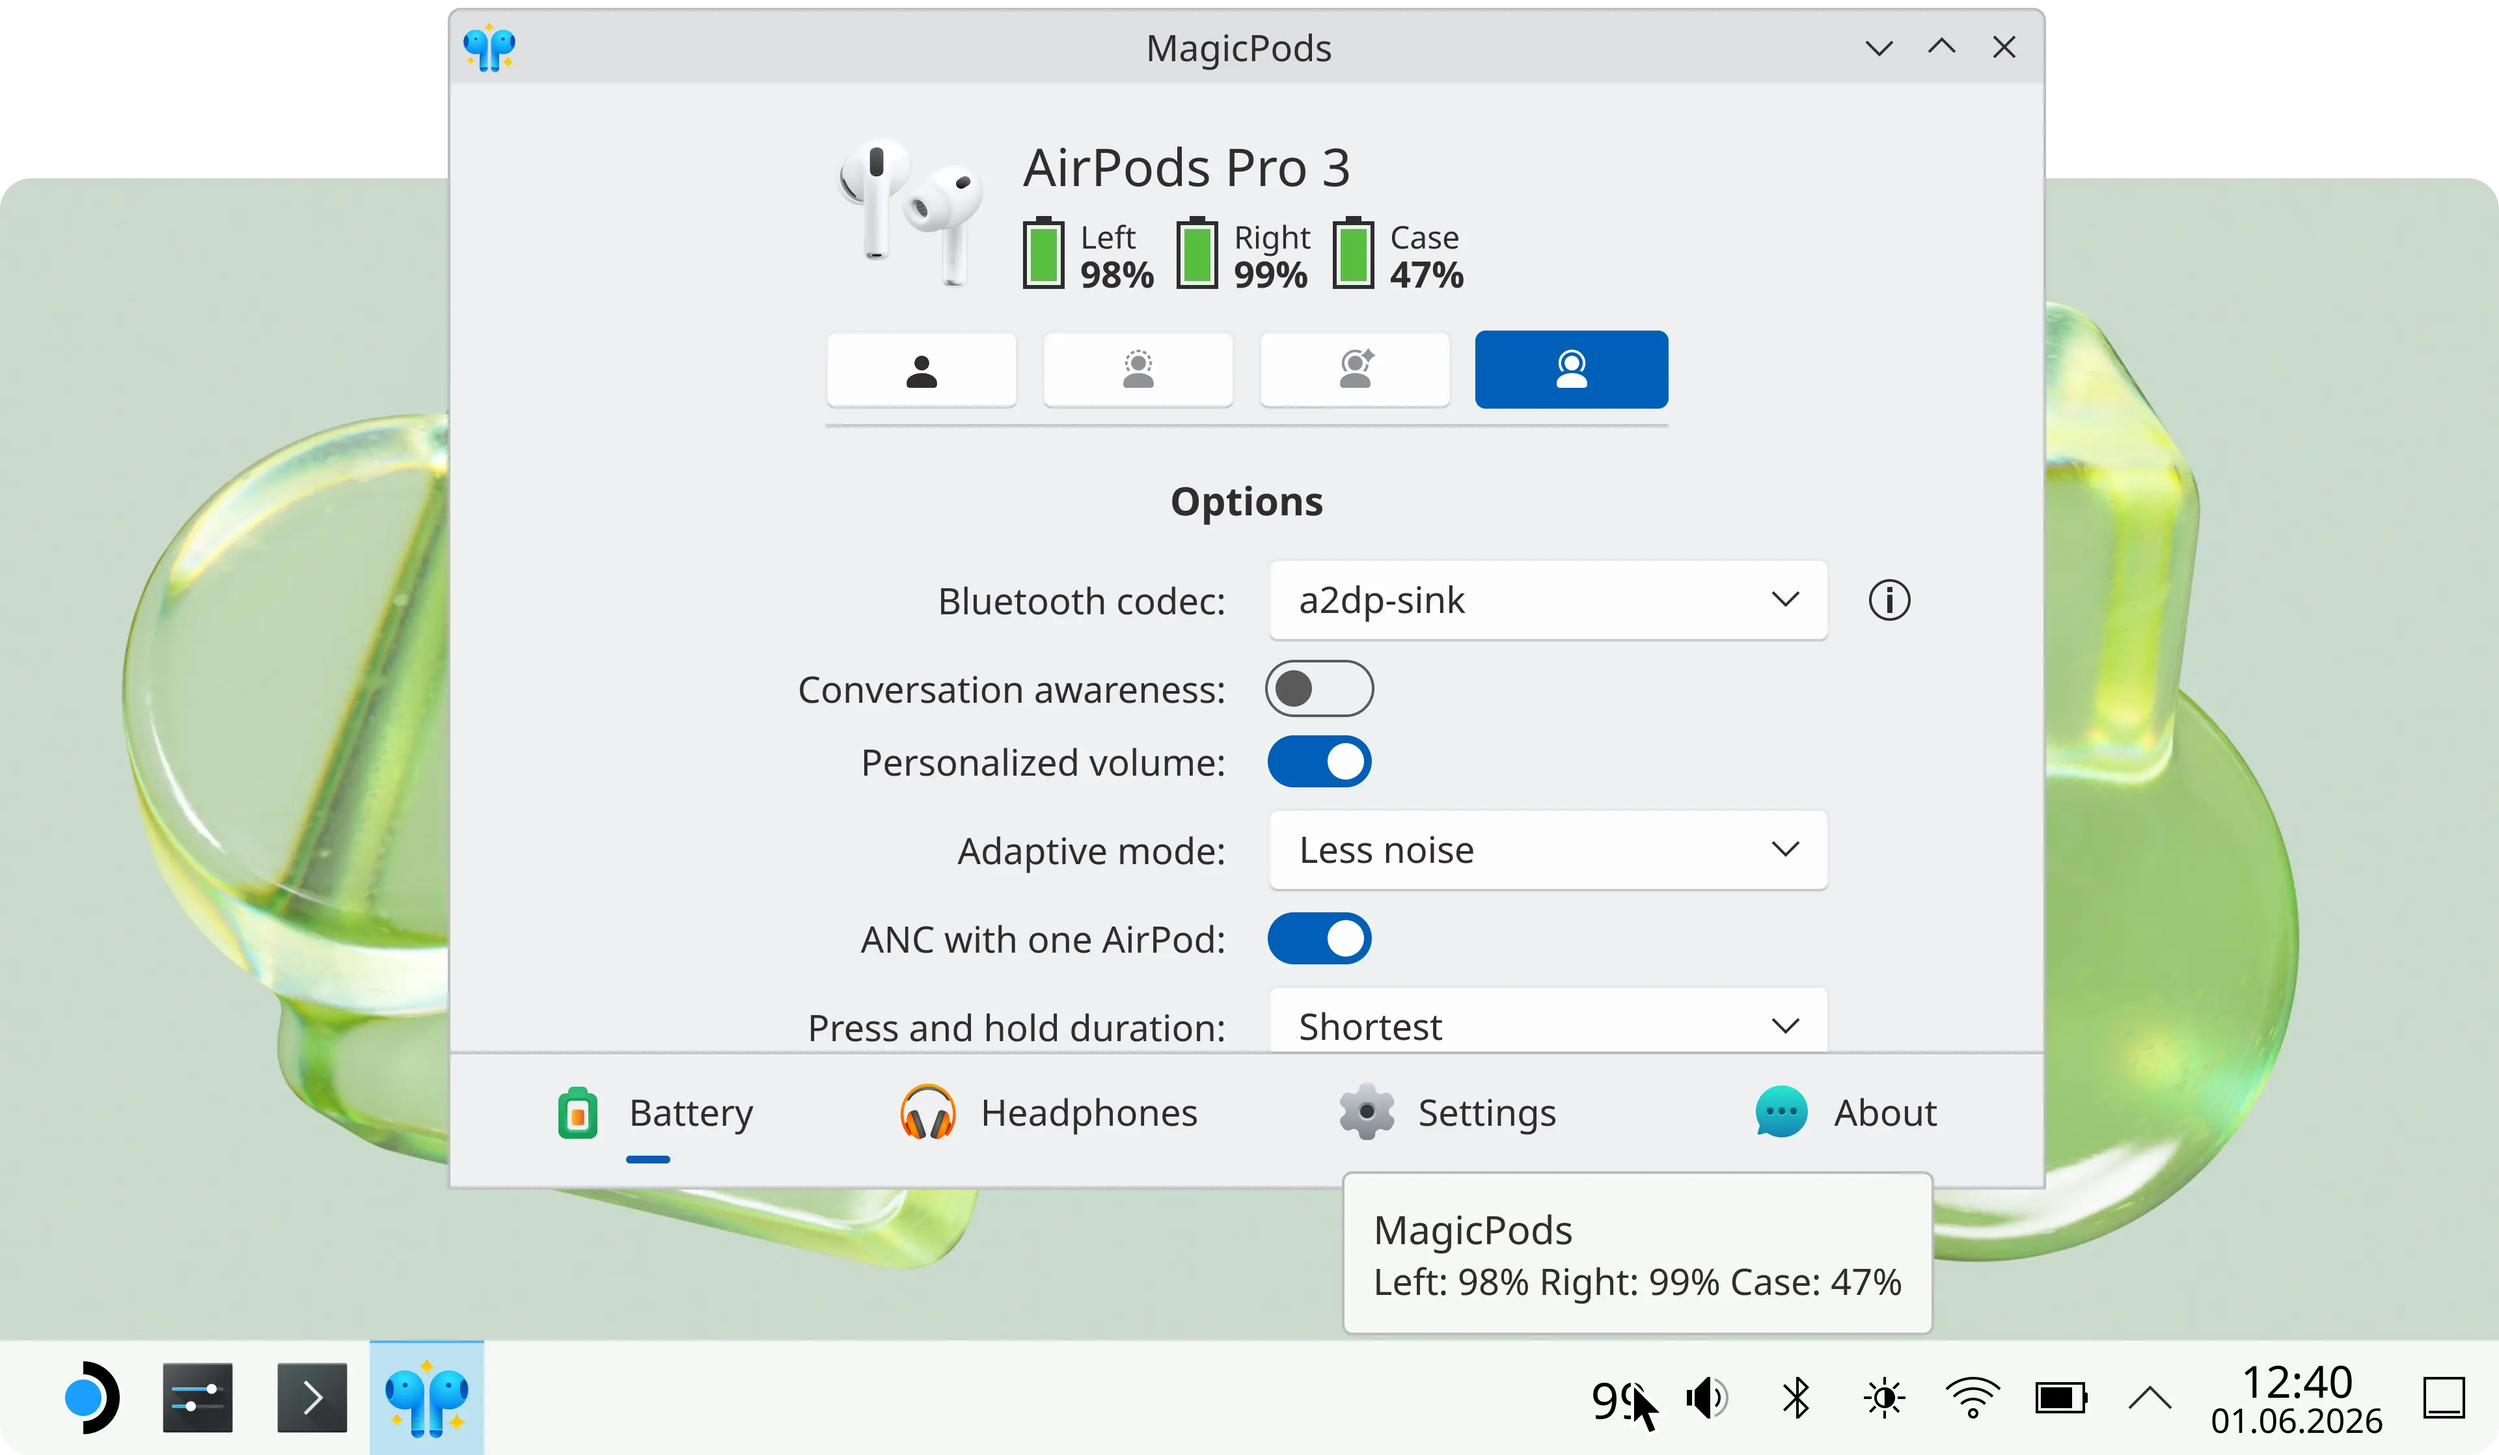
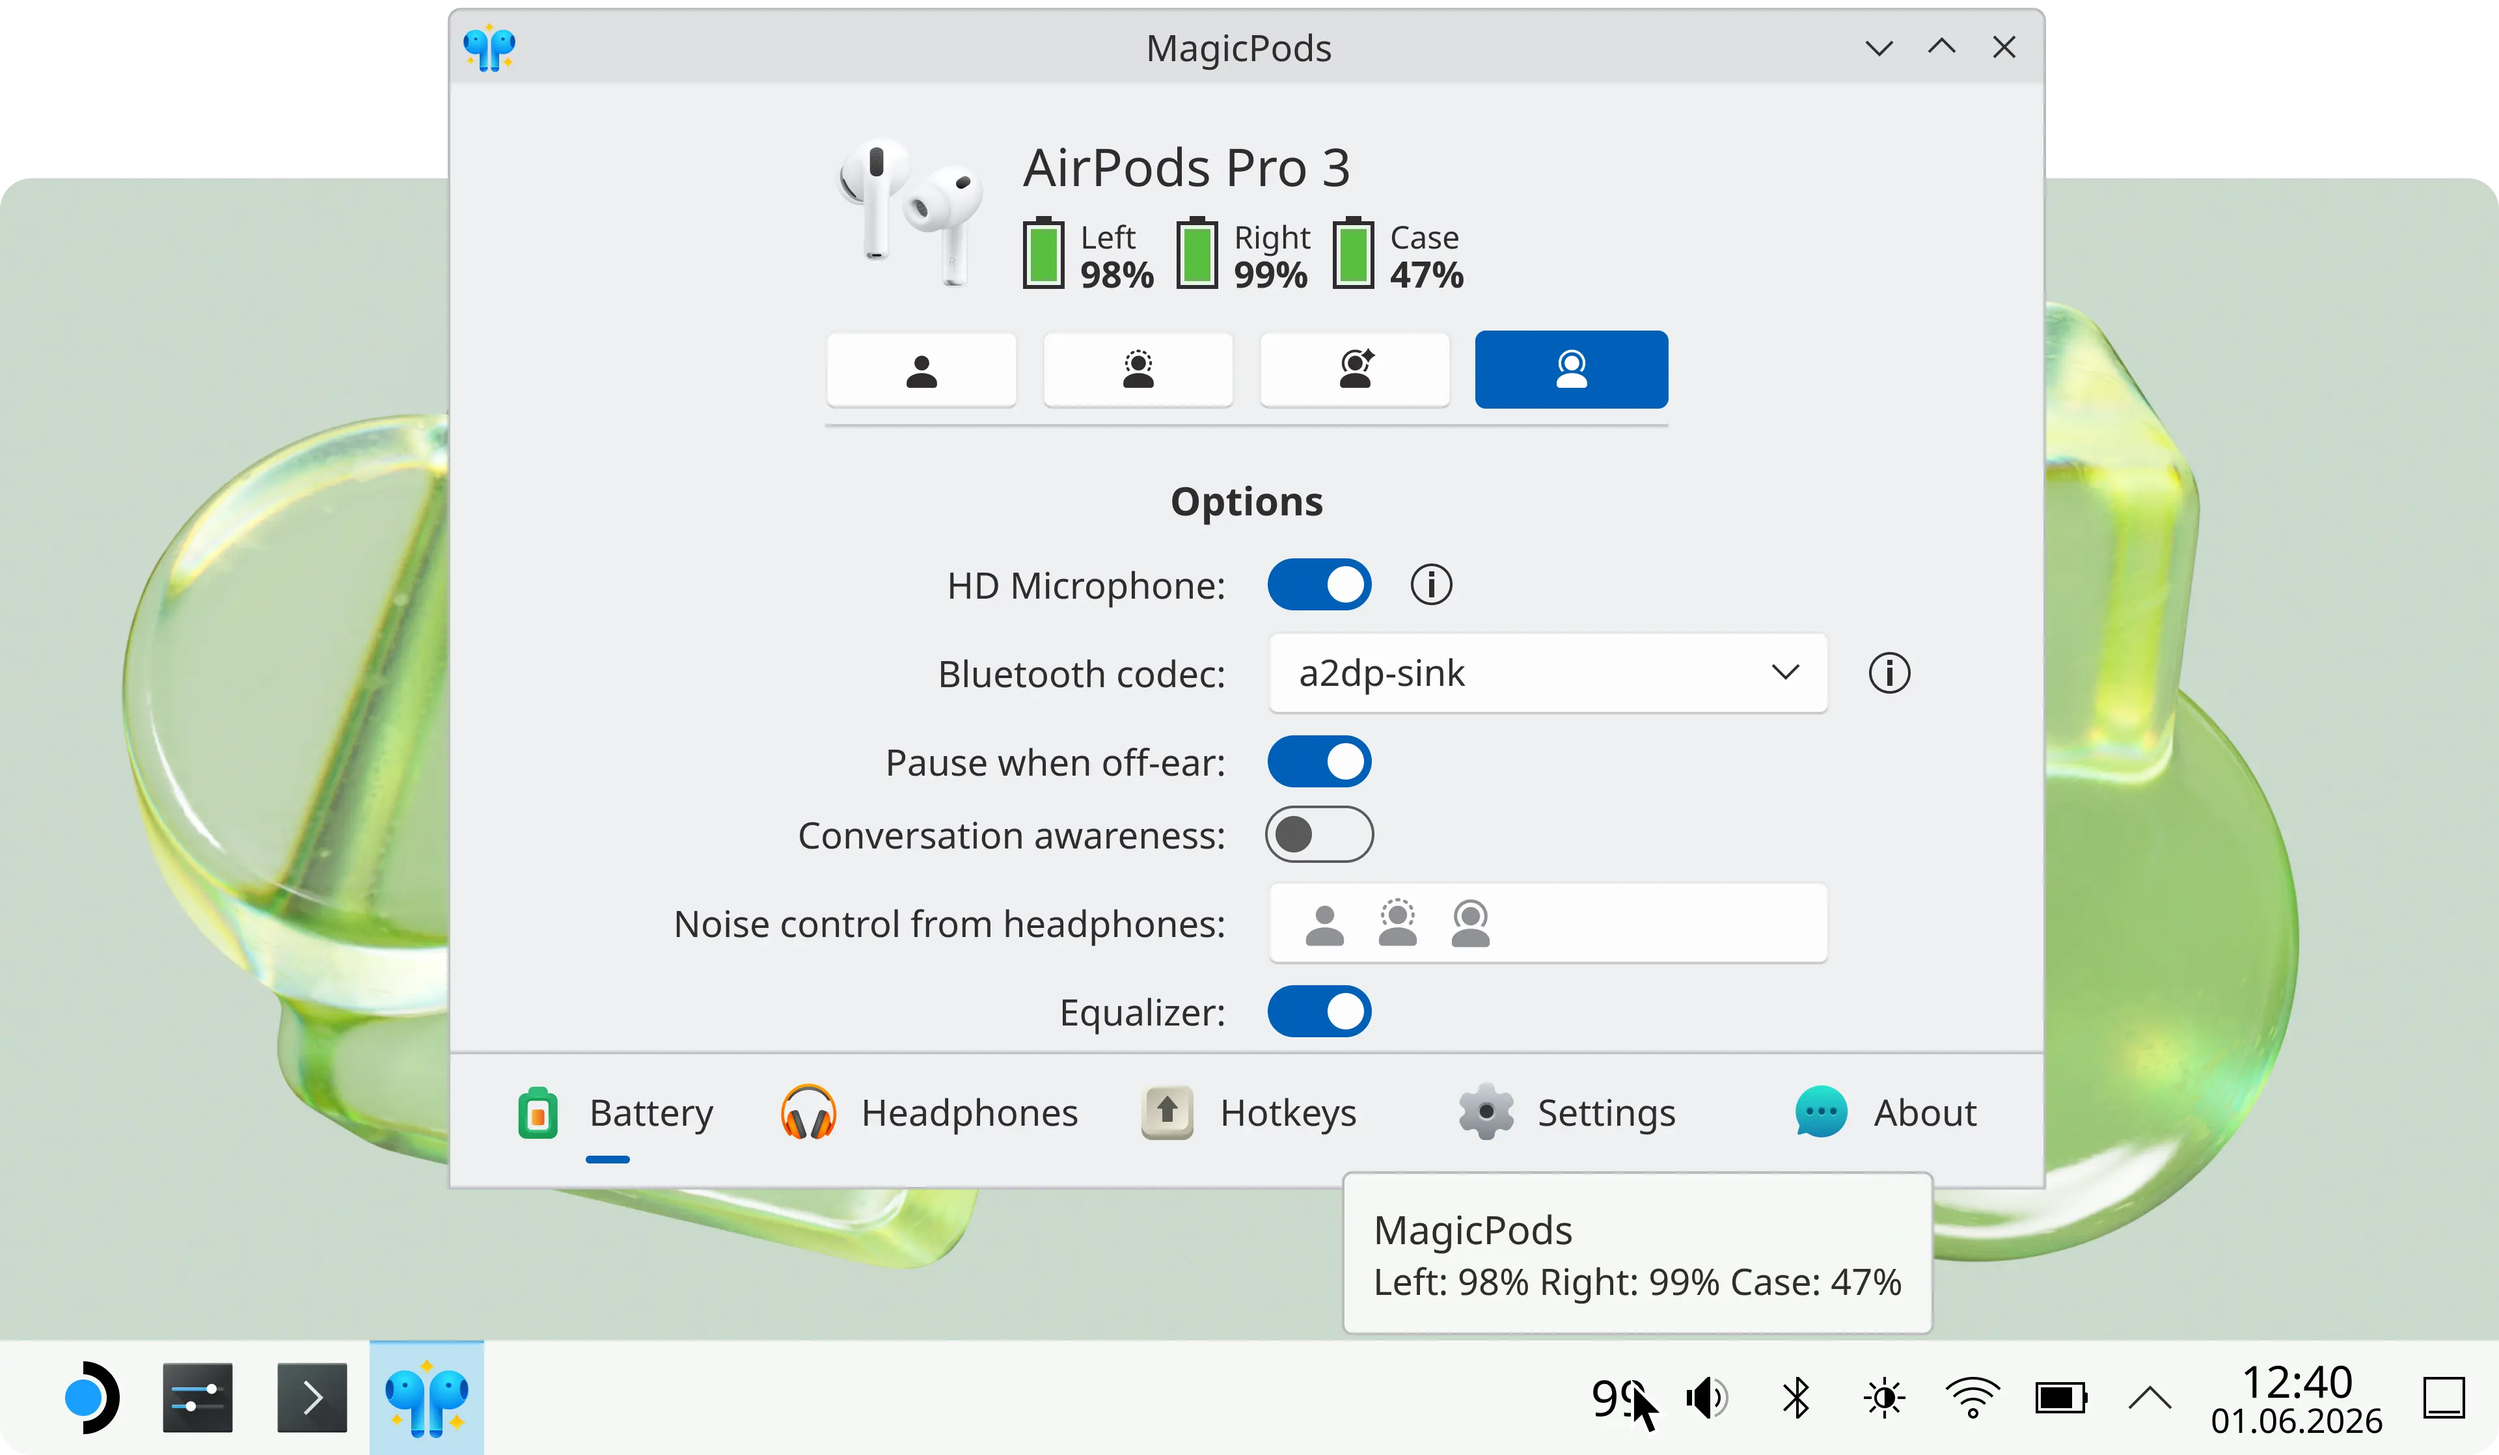
Updated README.md

diff --git a/README.md b/README.md
@@ -1,50 +1,88 @@
 # MagicPods✨ for Linux
 
-Use AirPods, Beats, and compatible Galaxy Buds on SteamOS or Linux with full control and battery monitoring. MagicPods seamlessly integrates your headphones with Steam Deck and Steam Machine, bringing iOS-style functionality to your gaming setup.
+Control your AirPods, Beats, and compatible Galaxy Buds on Linux and SteamOS. MagicPods brings battery monitoring, noise control, and advanced headphone settings to Steam Deck, Steam Machine, and Linux desktops.
 
-<p align="center"><a href="https://store.steampowered.com/app/4486410/MagicPods_for_Linux/"><img src="./docs/images/steambadge.webp"  width="156"/></a></p>
+<p align="center">
+  <a href="https://store.steampowered.com/app/4486410/MagicPods_for_Linux/">
+    <img src="./docs/images/steambadge.webp" width="156">
+  </a>
+</p>
 
 ![](./docs/images/linux-banner.webp)
 
 Tested on Kubuntu 26.04, Ubuntu 26.04, and SteamOS 3.7.24.
 
-### 🎨 Features
+## 🎨 Features
 
-#### Battery Monitoring
+- Battery Monitoring - View headphone battery levels in the app, system tray, or through the [MagicPodsDecky](https://github.com/steam3d/MagicPodsDecky) plugin for Decky Loader.
+- Noise Control - Switch between noise cancellation, transparency, adaptive, and other available modes.
+- Pop-Up Animation - See an iPhone-style battery animation when opening the charging case of compatible AirPods or Beats.
+- Bluetooth Management - Connect and disconnect headphones, control Bluetooth, and switch audio profiles or codecs.
+- System Tray - Monitor battery levels and control your headphones without opening the main window.
+- Global Hotkeys - Assign keyboard shortcuts to headphone controls in Desktop Mode.
+- Background Startup - Automatically launch MagicPods in the background.
+- Steam Gaming Mode - Use MagicPods with a fullscreen interface optimized for SteamOS.
 
-View battery levels inside the app, in the tray widget, or through the [MagicPodsDecky](https://github.com/steam3d/MagicPodsDecky) plugin for Decky Loader. Works with all AirPods, most Beats, and many other Bluetooth headphones.
+## 🪄 Unlock AirPods & Beats Magic
 
-#### Noise Control
+Customize your AirPods and Beats without ever needing an iPhone.
 
-Switch between available noise control modes directly from the app. Noise cancellation, transparency, adaptive, and off modes are supported on AirPods, Beats, and Galaxy Buds (model dependent).
+### HD Microphone
 
-#### Pop-Up Animation
+- Get significantly better microphone quality on compatible AirPods with the H2 chip compared to standard Bluetooth Hands-Free mode.
 
-An iPhone-style pop-up window appears when you open the charging case of your AirPods or Beats, showing battery information.
+### Smart Audio
 
-### Advanced Controls
+- Conversation Awareness - Automatically lower audio volume when you start speaking.
+- Personalized Volume - Enable or disable personalized volume adjustments.
+- Ear Detection - Automatically pause and resume playback when removing or wearing your earbuds.
+- Audio Output Switching - Automatically switch between headphones and system speakers when supported.
 
-Customize how your AirPods or Beats behave with support for Conversation Awareness, Personalized Volume, Adaptive Audio tuning, and configurable touch controls.
+### Noise Control
 
-## 🎧 Headphones supported
+- Adaptive Audio - Adjust how much outside noise you hear.
+- Noise Cancellation with One AirPod - Enable noise cancellation while wearing a single AirPod.
+- Custom Noise Control Modes - Choose which modes are available when switching directly from your headphones.
+- Off Listening Mode - Enable or disable the Off listening mode on compatible AirPods.
 
-| Apple            | Beats                  | Samsung           |
-| ---------------- | ---------------------- | ----------------- |
-| AirPods 1        | PowerBeats Pro         | Galaxy Buds       |
-| AirPods 2        | PowerBeats Pro 2       | Galaxy Buds Plus  |
-| AirPods 3        | PowerBeats 3           | Galaxy Buds Live  |
-| AirPods 4        | PowerBeats 4           | Galaxy Buds Pro   |
-| AirPods 4 (ANC)  | Beats Fit Pro          | Galaxy Buds 2     |
-| AirPods 5        | Beats Studio Buds      | Galaxy Buds 2 Pro |
-| AirPods 5 (WCC)  | Beats Studio Buds Plus | Galaxy Buds FE    |
-| AirPods Pro      | Beats Studio Pro       | Galaxy Buds 3     |
-| AirPods Pro 2    | Beats Solo 3           | Galaxy Buds 3 Pro |
-| AirPods Pro 3    | Beats Solo Pro         |                   |
-| AirPods Max      | Beats Studio 3         |                   |
-| AirPods Max 2024 | Beats X                |                   |
-|                  | Beats Flex             |                   |
-|                  | Beats Solo Buds        |                   |
+### Controls & Gestures
 
+- Customize press-and-hold actions for each earbud.
+- Adjust press speed and press-and-hold duration.
+- Configure single and double presses for call controls.
+- Customize volume swipe gestures.
+- Change Digital Crown rotation direction on supported AirPods Max models.
+
+### More Settings
+
+- Custom Equalizer - Adjust bass, mids, and treble.
+- Headphone Tones - Adjust the volume of built-in headphone tones.
+- Optimized Charge Limit - Manage charging optimization on compatible models.
+- Pause When Asleep - Configure automatic playback pausing on supported headphones.
+
+*Available features depend on your headphone model and firmware. MagicPods automatically displays only the settings supported by your connected device.*
+
+## 🎧 Supported Headphones
+
+| Apple            | Beats                  | Samsung           | Google              |
+| ---------------- | ---------------------- | ----------------- | ------------------- |
+| AirPods 1        | PowerBeats Pro         | Galaxy Buds       | Pixel Buds A-Series |
+| AirPods 2        | PowerBeats Pro 2       | Galaxy Buds Plus  | Pixel Buds Pro      |
+| AirPods 3        | PowerBeats 3           | Galaxy Buds Live  | Pixel Buds Pro 2    |
+| AirPods 4        | PowerBeats 4           | Galaxy Buds Pro   | Pixel Buds 2a       |
+| AirPods 4 (ANC)  | Beats Fit Pro          | Galaxy Buds 2     |                     |
+| AirPods 5        | Beats Studio Buds      | Galaxy Buds 2 Pro |                     |
+| AirPods 5 (WCC)  | Beats Studio Buds Plus | Galaxy Buds FE    |                     |
+| AirPods Pro      | Beats Studio Pro       | Galaxy Buds 3     |                     |
+| AirPods Pro 2    | Beats Solo 3           | Galaxy Buds 3 Pro |                     |
+| AirPods Pro 3    | Beats Solo Pro         | Galaxy Buds Core  |                     |
+| AirPods Max      | Beats Studio 3         | Galaxy Buds 3 FE  |                     |
+| AirPods Max 2024 | Beats X                | Galaxy Buds 4     |                     |
+| AirPods Max 2    | Beats Flex             | Galaxy Buds 4 Pro |                     |
+|                  | Beats Solo Buds        |                   |                     |
+|                  | Beats Solo 4           |                   |                     |
+|                  | Beats 360              |                   |                     |
+|                  | Powerbeats Fit         |                   |                     |
 
 ## 🚀 Getting started
 
